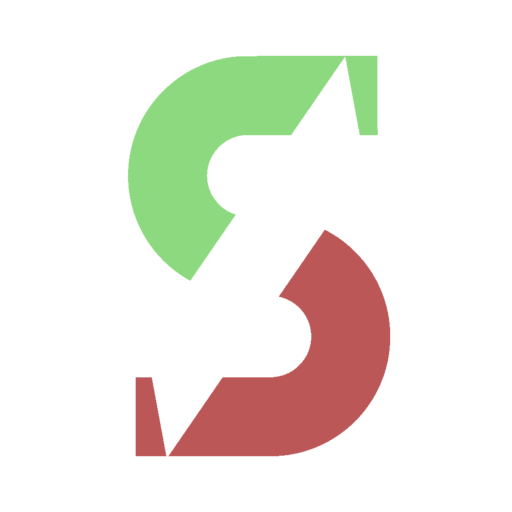
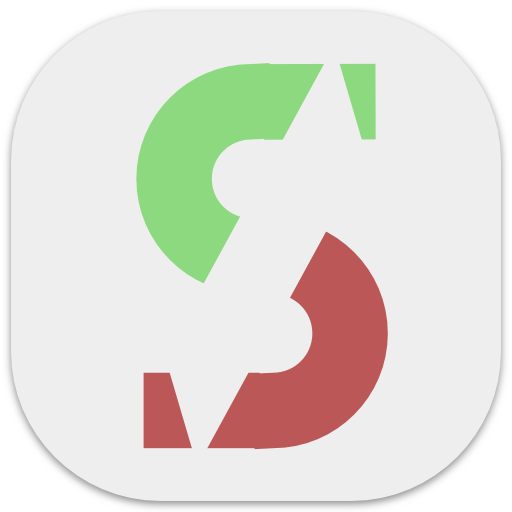
minor adjustments
wrapped homescreen icons with round gray square, added logo onto navbar, changed theme color to #eeeeee, added missing android icon sizes

diff --git a/public/index.html b/public/index.html
@@ -1,13 +1,27 @@
 <html>
 <head>
-  <title>SentiSocial</title>
+  <meta charset="UTF-8">
   <meta name="viewport" content="width=device-width, initial-scale=1, maximum-scale=1, user-scalable=no">
-  <link rel="apple-touch-icon" sizes="180x180" href="/apple-touch-icon.png">
-  <link rel="icon" type="image/png" href="/favicon-32x32.png" sizes="32x32">
-  <link rel="icon" type="image/png" href="/favicon-16x16.png" sizes="16x16">
-  <link rel="manifest" href="/manifest.json">
-  <meta name="theme-color" content="#ffffff">
-  <script src="//pagead2.googlesyndication.com/pagead/js/adsbygoogle.js" async></script>
+
+  <!-- Titles -->
+  <title>SentiSocial</title>
+  <meta name="apple-mobile-web-app-title" content="SentiSocial">
+  <meta name="application-name" content="SentiSocial">
+  <meta name="description" content="Social media sentiment analysis and news aggregation">
+
+  <!-- Icons -->
+  <link rel="apple-touch-icon" sizes="180x180" href="apple-touch-icon.png">
+  <link rel="icon" type="image/png" href="favicon-32x32.png" sizes="32x32">
+  <link rel="icon" type="image/png" href="favicon-16x16.png" sizes="16x16">
+  <link rel="mask-icon" href="safari-pinned-tab.svg" color="#00a300">
+  
+  <link rel="manifest" href="manifest.json">
+  <meta name="theme-color" content="#eeeeee">
+
+  <!-- Google Adsense -->
+  <script src="https://pagead2.googlesyndication.com/pagead/js/adsbygoogle.js" async></script>
+
+  <!-- Google Analytics -->
   <script>
     (function(i,s,o,g,r,a,m){i['GoogleAnalyticsObject']=r;i[r]=i[r]||function(){
     (i[r].q=i[r].q||[]).push(arguments)},i[r].l=1*new Date();a=s.createElement(o),
@@ -21,16 +35,26 @@
       enable_page_level_ads: true
     });
   </script>
+
+  <!-- SentiSocial Javascript -->
   <script src="js/bundle.js" async></script>
+
+  <!-- SentiSocial CSS -->
   <link href="css/bundle.css" rel="stylesheet"/>
 </head>
 <body>
+
+  <!-- Loading -->
   <div id="loading" style="display: none;">
     <span class="loading--title">Senti Social</span>
     <img class="loading--logo" src="img/logo.png" alt="Senti Social Logo"></img>
     <img class="loading--image" src="img/loading.gif" alt="Loading..."></img>
   </div>
+
+  <!-- React Root -->
   <div id="root"></div>
+
+  <!-- No Javascript -->
   <noscript>
     <div id="no-js">
       Your browser does not have JavaScript enabled. Please enable JavaScript in
@@ -39,6 +63,8 @@
       <a href="http://enable-javascript.com"> this guide</a>.
     </div>
   </noscript>
+
+  <!-- Loading -->
   <script>
     (function() {
       var loading = document.getElementById('loading')

diff --git a/src/ts/components/navigation.tsx b/src/ts/components/navigation.tsx
@@ -46,8 +46,7 @@ export class NavigationComponent
               <button type="button"
                 className="navbar-toggle collapsed"
                 aria-expanded="false"
-                onClick={this.handleCollapseEvent}
-              >
+                onClick={this.handleCollapseEvent}>
                 <span className="sr-only">Toggle navigation</span>
                 <span className="icon-bar"></span>
                 <span className="icon-bar"></span>
@@ -57,7 +56,10 @@ export class NavigationComponent
               id="navigation--back"
               onClick={this.props.onBackClick}
               />}
-              <span className="navbar-brand">{this.props.title}</span>
+              <span className="navbar-brand">
+                <img id="nav--logo" src="img/logo.png" alt="Logo"/>
+                {this.props.title}
+              </span>
             </div>
             <div className={`navbar-collapse ${isCollapsed}`}>
               <ul className="nav navbar-nav navbar-right">

diff --git a/src/ts/index.tsx b/src/ts/index.tsx
@@ -54,7 +54,7 @@ class Application extends React.Component<undefined, ApplicationState> {
       page = <PageSpecificTrends name={name} />;
     } else {
       // if there is no trend selected, display the home page.
-      title = 'Senti Social';
+      title = 'SentiSocial';
       page = <PageTrends onTrendClick={this.handleTrendClick} />;
     }
     return (

diff --git a/src/less/index.less b/src/less/index.less
@@ -12,6 +12,12 @@ body {
   width: 100%;
 }
 
+#nav--logo {
+  width: 32px;
+  display: inline-block;
+  margin-top: -5px;
+}
+
 .loading--title {
   font-size: 3rem;
   position: absolute;
